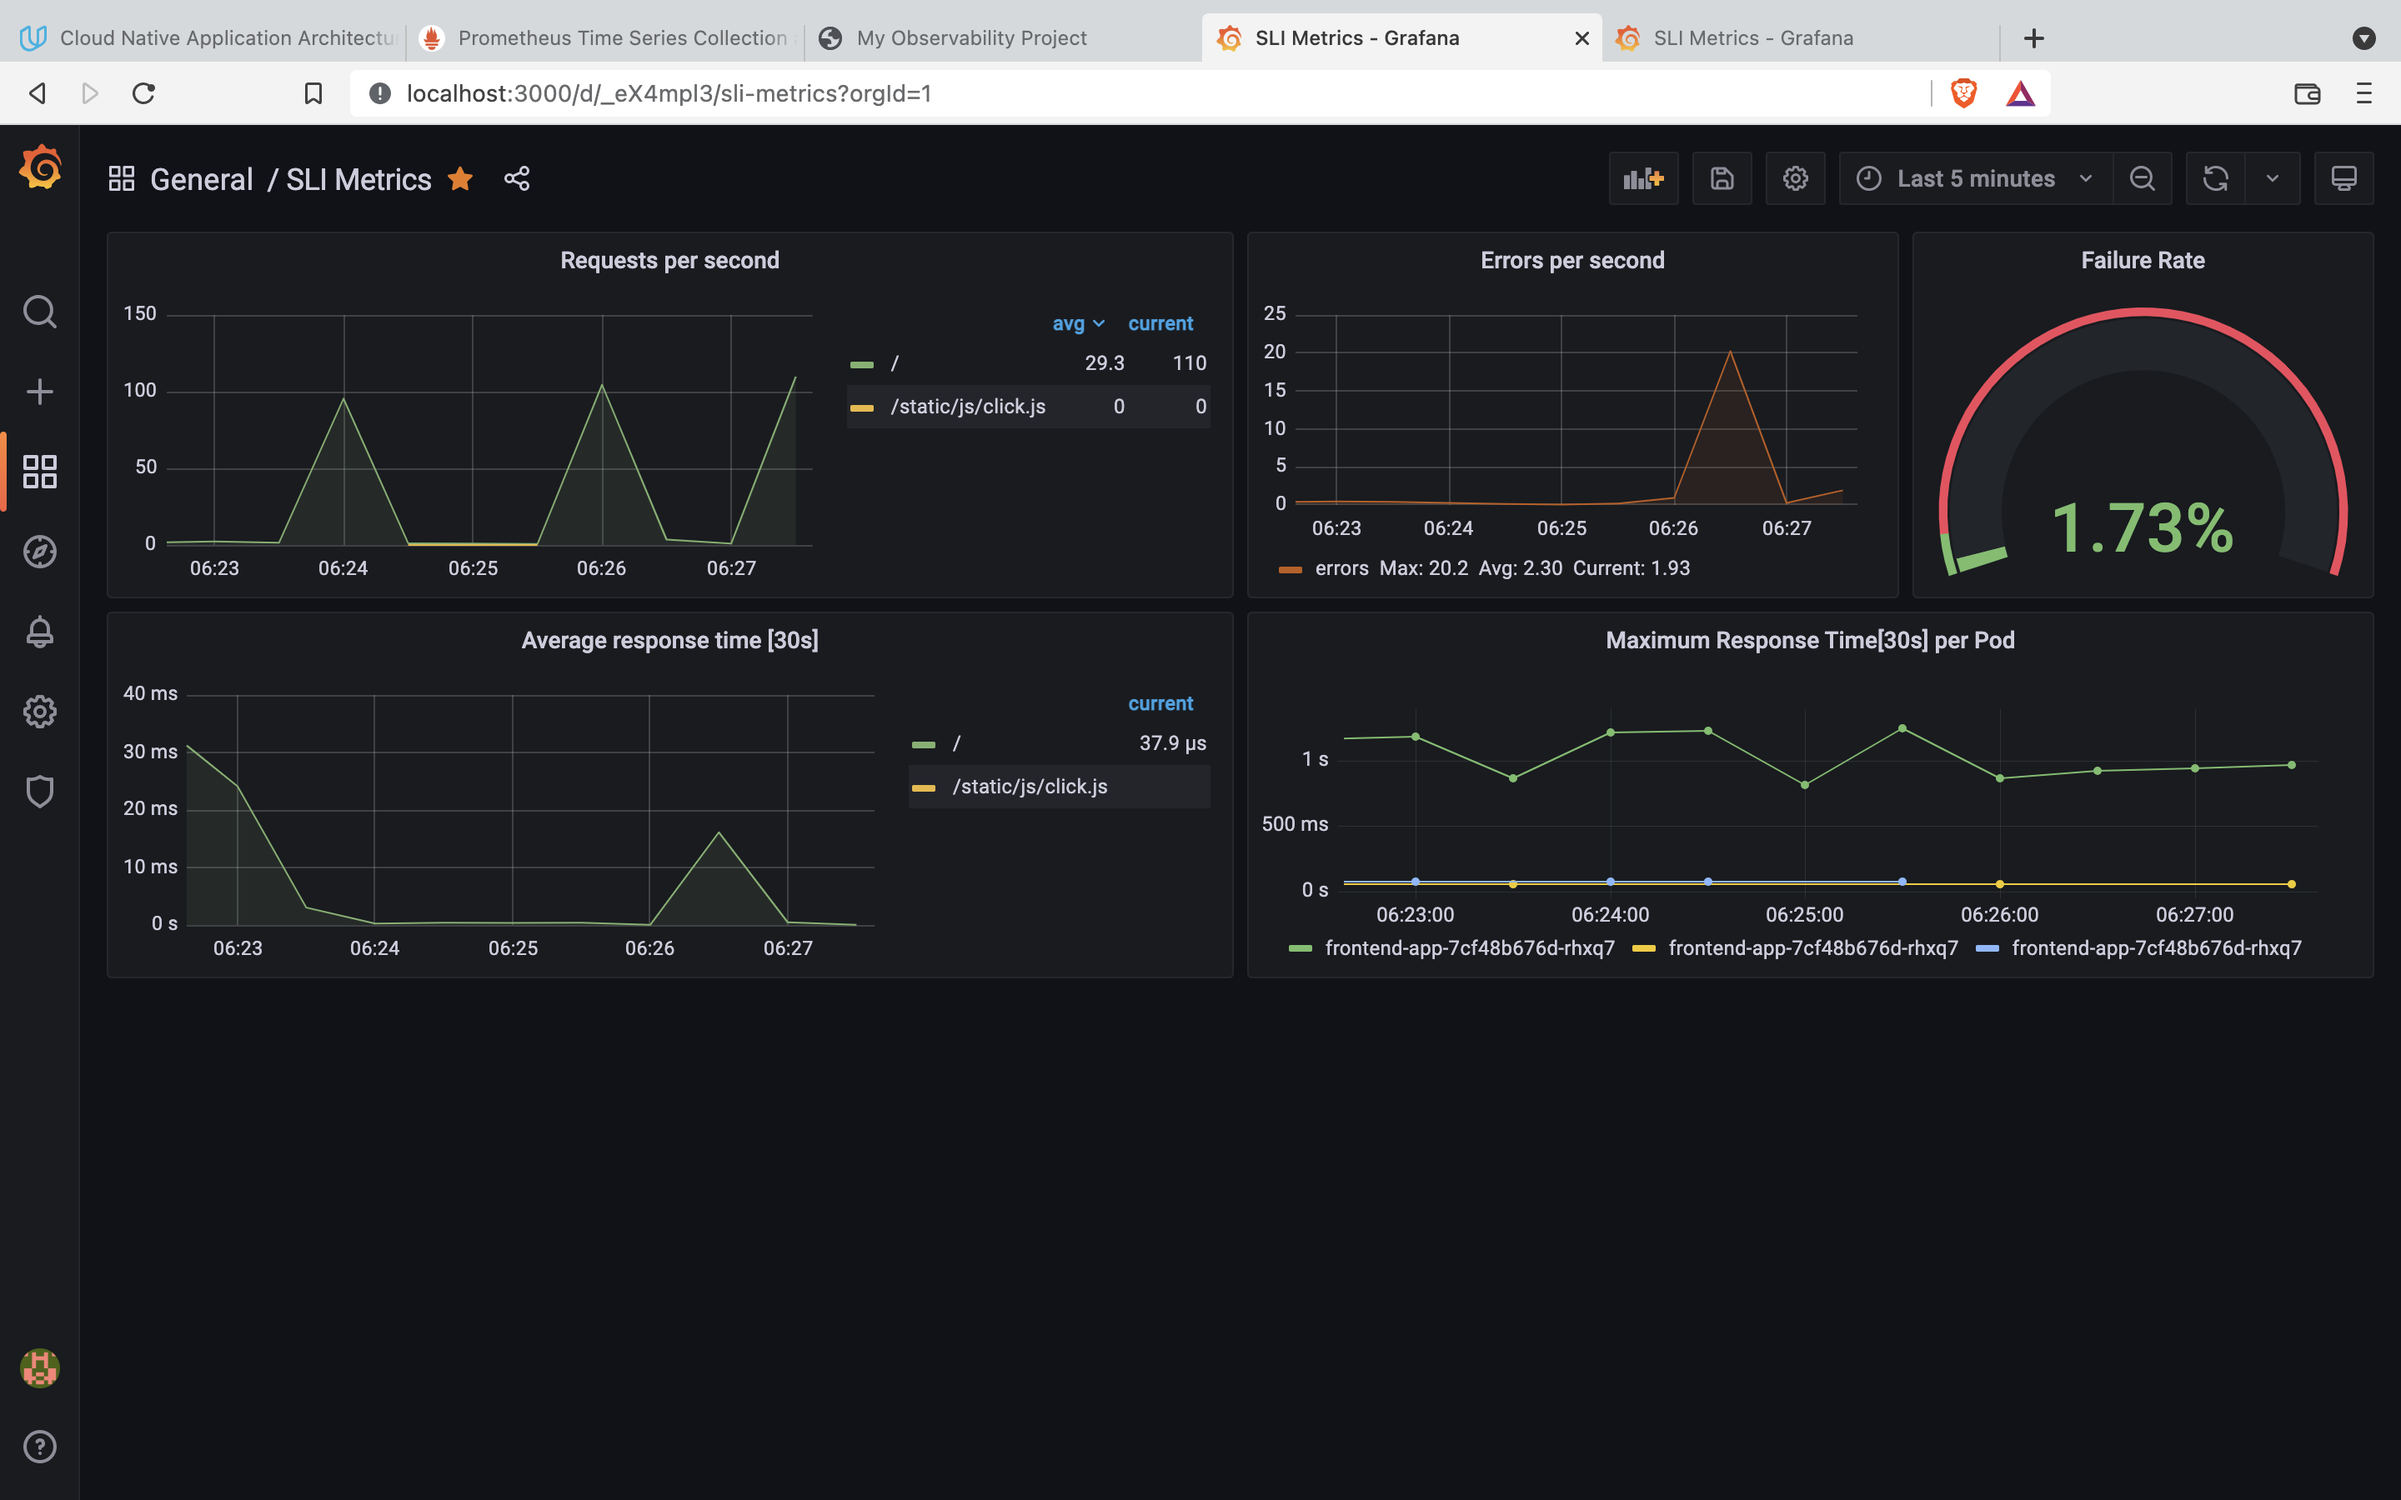
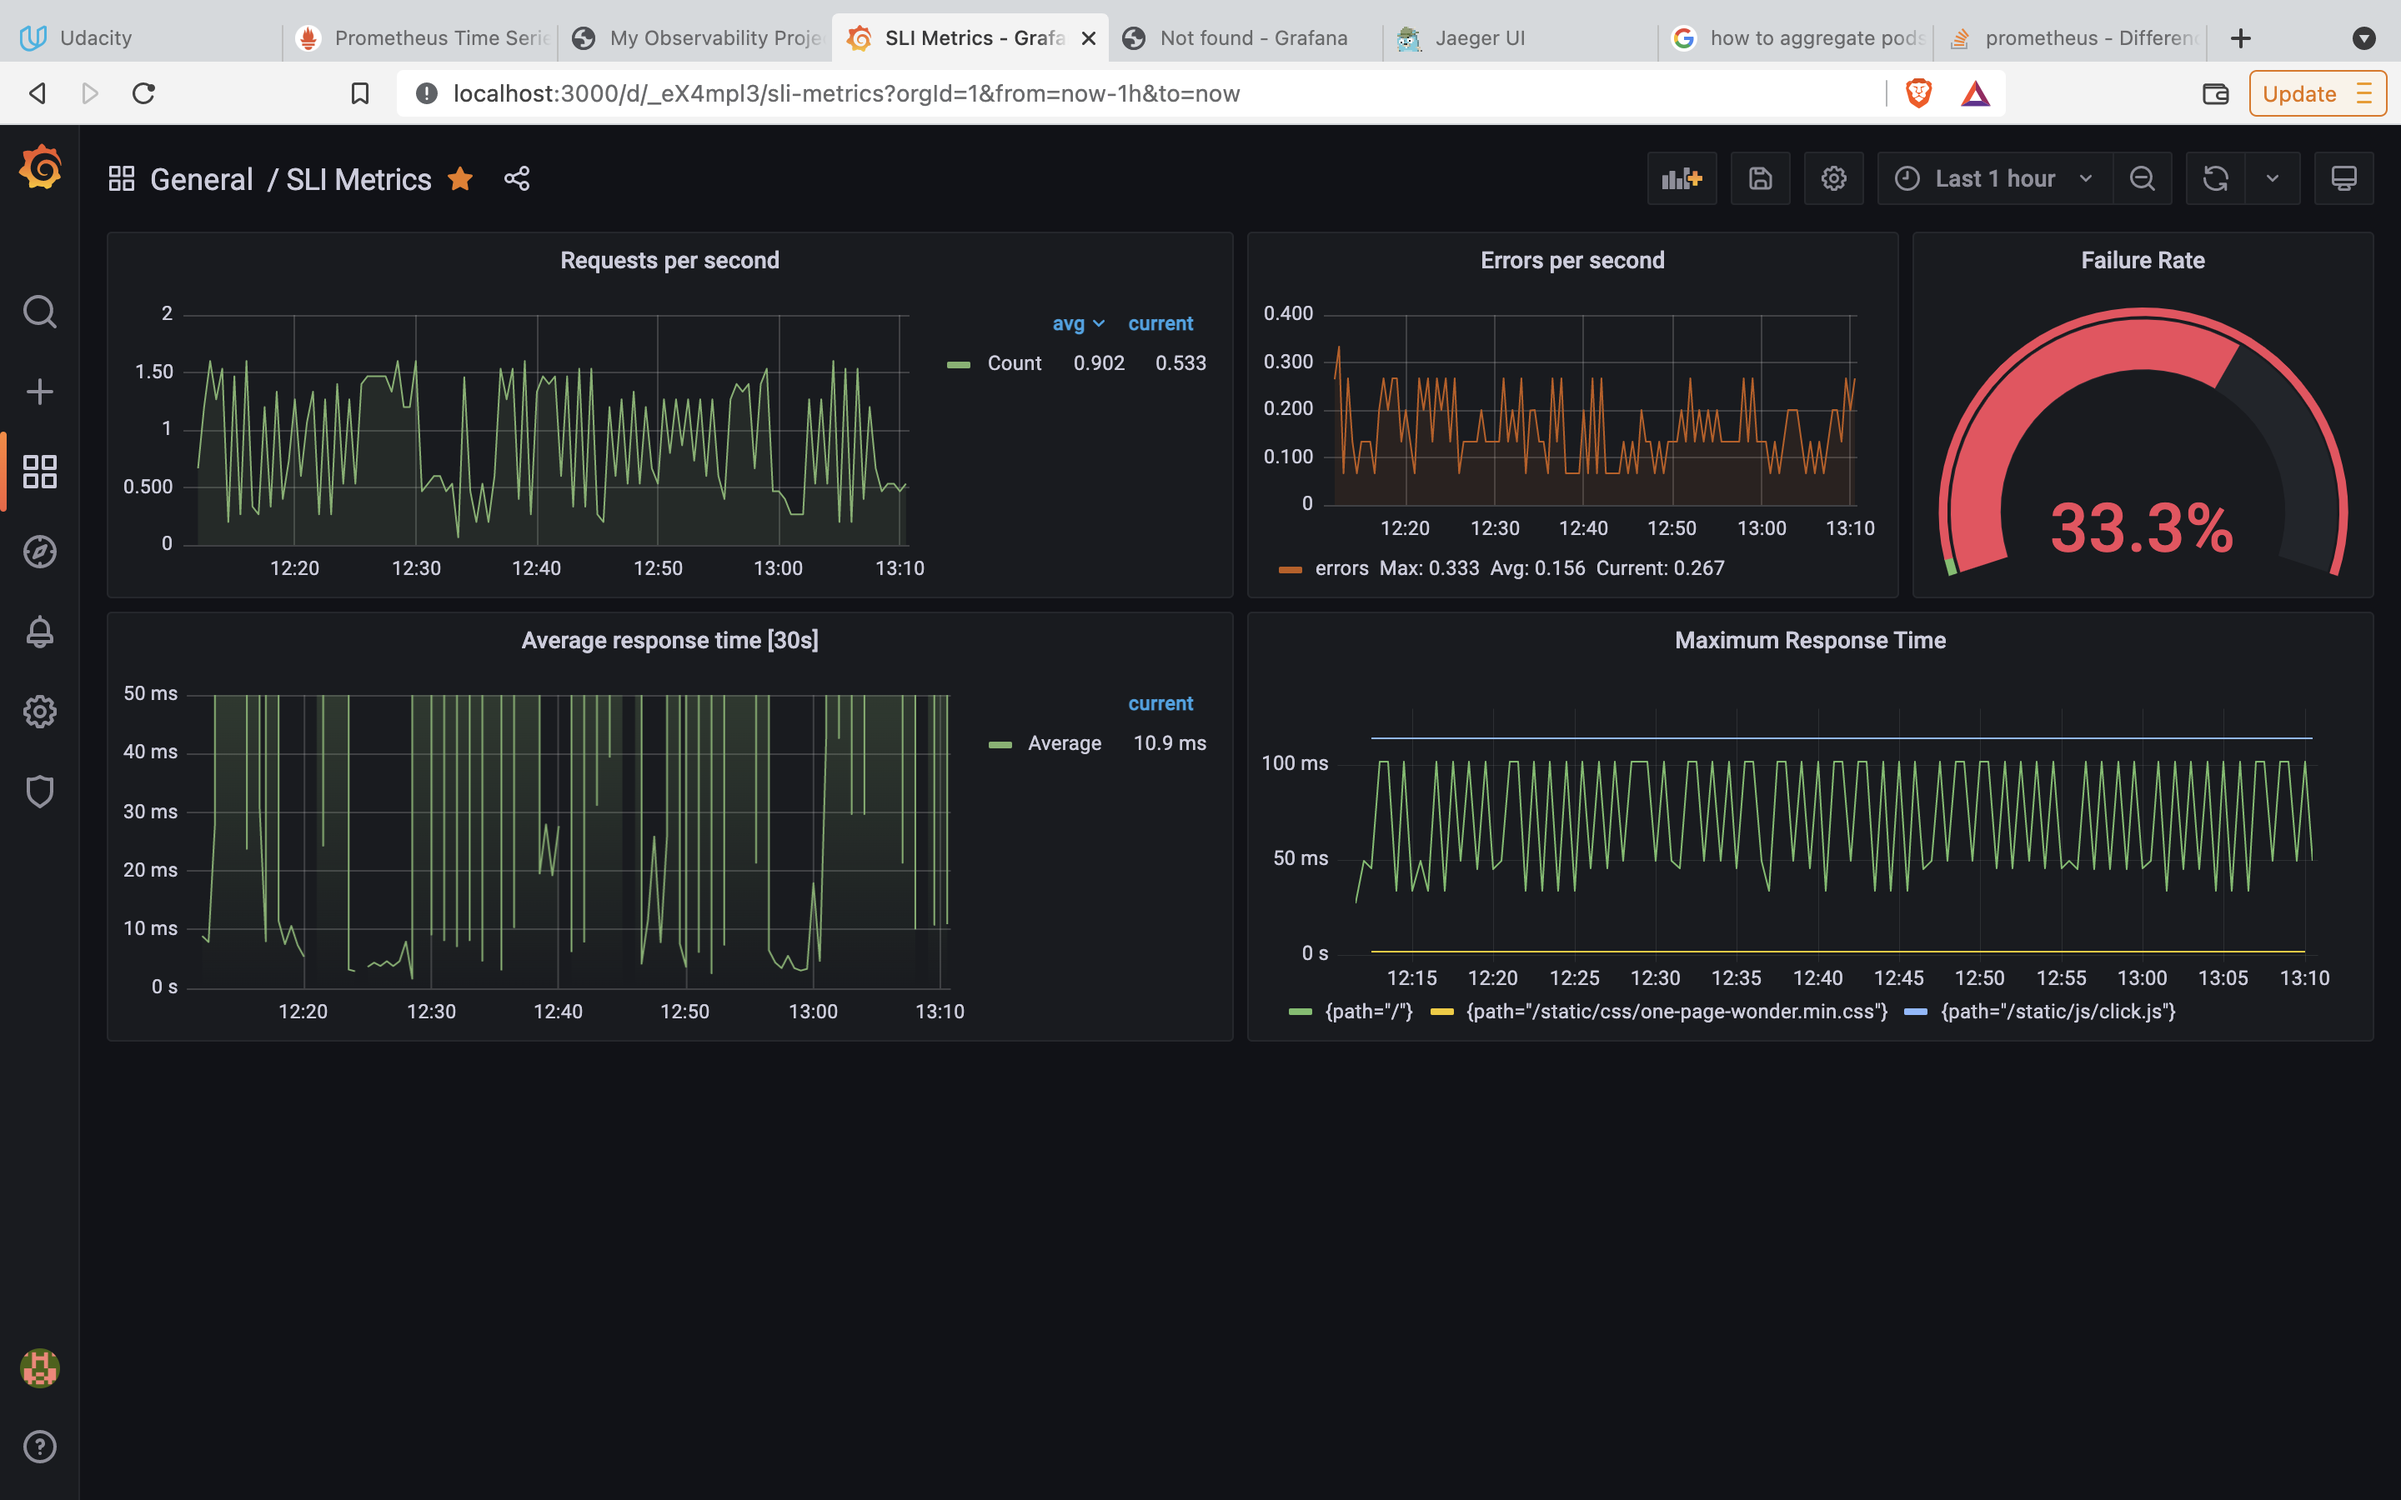
Completed Dashboard project

diff --git a/Project_Starter_Files-Building_a_Metrics_Dashboard/reference-app/backend/app.py b/Project_Starter_Files-Building_a_Metrics_Dashboard/reference-app/backend/app.py
@@ -5,7 +5,7 @@ from opentracing.ext import tags
 from opentracing.propagation import Format
 import pymongo
 from flask_pymongo import PyMongo
-
+from prometheus_flask_exporter import PrometheusMetrics
 
 def init_tracer(service):
     logging.getLogger('').handlers = []
@@ -27,6 +27,10 @@ def init_tracer(service):
 tracer = init_tracer('backend')
 
 app = Flask(__name__)
+
+metrics = PrometheusMetrics(app)
+# static information as metric
+metrics.info("app_info", "Application info", version="1.0.3")
 
 app.config["MONGO_DBNAME"] = "example-mongodb"
 app.config[

diff --git a/Project_Starter_Files-Building_a_Metrics_Dashboard/README.md b/Project_Starter_Files-Building_a_Metrics_Dashboard/README.md
@@ -73,29 +73,54 @@ _Number of error HTTP responses per second divided by the total number of HTTP c
 ## Jaeger in Dashboards
 *TODO:* Now that the trace is running, let's add the metric to our current Grafana dashboard. Once this is completed, provide a screenshot of it here.
 
+![Jaeger Trace on Grafana](answer-img/10-jaeger-trace-on-grafana.png)
+
 ## Report Error
 *TODO:* Using the template below, write a trouble ticket for the developers, to explain the errors that you are seeing (400, 500, latency) and to let them know the file that is causing the issue also include a screenshot of the tracer span to demonstrate how we can user a tracer to locate errors easily.
 
 TROUBLE TICKET
 
-Name:
+Name: Error on /star endpoint
 
-Date:
+Date: 27/12/2021 1:58PM
 
-Subject:
+Subject: /star enpoint takes over 30s to finish 
 
-Affected Area:
+Affected Area: /star backend api
 
-Severity:
+Severity: High
 
-Description:
+Description: Post to /star endpoint with payload below take more than 30s to respond and produces error: 
+
+{
+    "name": "North Star",
+    "distance": 1000
+}
+
+![Error Details on Grafana](answer-img/11-jaeger-star-endpoint-error.png)
 
 
 ## Creating SLIs and SLOs
 *TODO:* We want to create an SLO guaranteeing that our application has a 99.95% uptime per month. Name four SLIs that you would use to measure the success of this SLO.
 
+_Percentage of time for which containers were up and running_
+
+_Number of 400x errors over time_
+
+_Number of 500x errors over time_
+
+_Percentage of Errors compared to total number of requests (i.e. Failure Rate)_
+
 ## Building KPIs for our plan
 *TODO*: Now that we have our SLIs and SLOs, create a list of 2-3 KPIs to accurately measure these metrics as well as a description of why those KPIs were chosen. We will make a dashboard for this, but first write them down here.
 
+_Failure Rate should be less than 0.05%_
+
+_Container uptime should be at least 99.95% for all applications (frontend and backend)_
+
+_No 400x or 500x errors detected_
+
 ## Final Dashboard
 *TODO*: Create a Dashboard containing graphs that capture all the metrics of your KPIs and adequately representing your SLIs and SLOs. Include a screenshot of the dashboard here, and write a text description of what graphs are represented in the dashboard.  
+
+![Final Dashboard](answer-img/12_final_dashboard.png)

diff --git a/Project_Starter_Files-Building_a_Metrics_Dashboard/notes.md b/Project_Starter_Files-Building_a_Metrics_Dashboard/notes.md
@@ -53,7 +53,7 @@ Frontend code has been modified so that metrics are exported using prometheus_fl
 cd reference-app/frontend
 docker build -f ./Dockerfile -t frontend .
 
-# Frontend
+# Backend
 cd reference-app/backend
 docker build -f ./Dockerfile -t backend .
 ```
